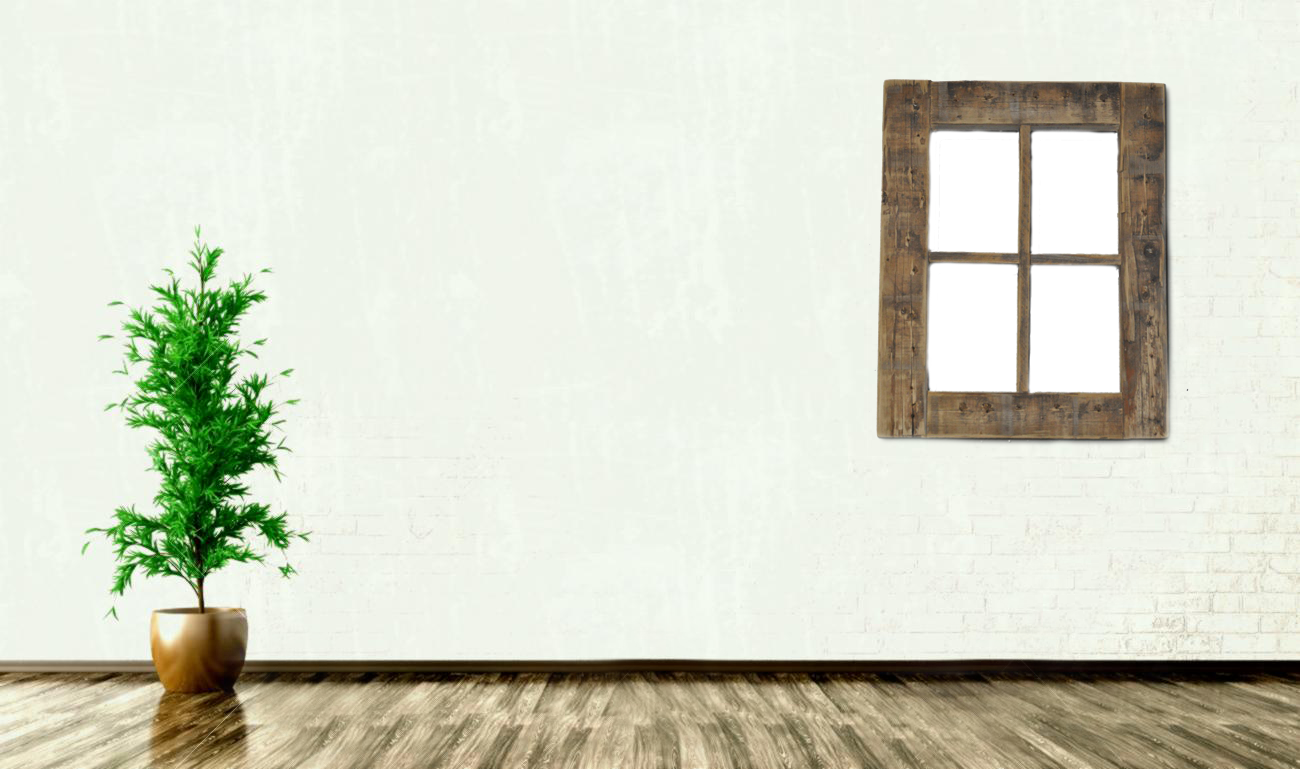
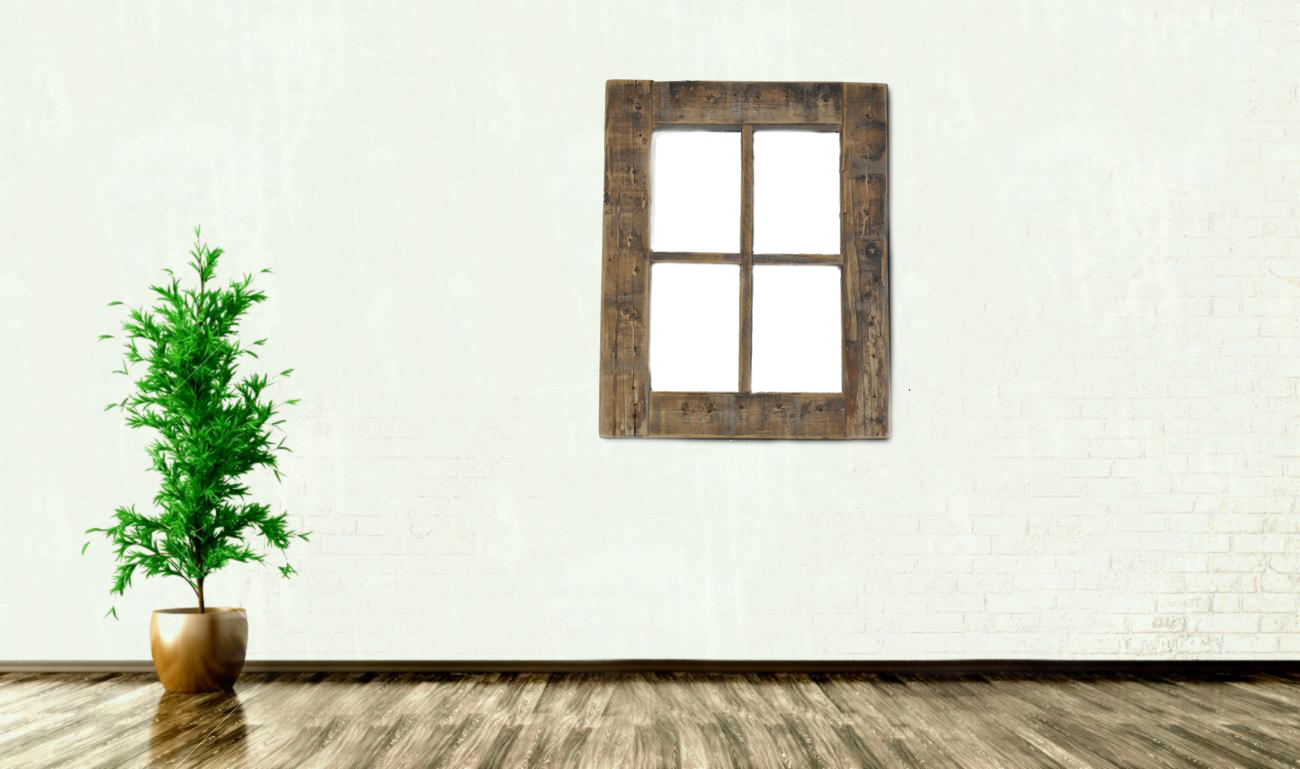
fixed door and fixed navbar

Changed region(s): [[0.4615, 0.0936, 0.9231, 0.593]]

diff --git a/client/src/components/NavBar.js b/client/src/components/NavBar.js
@@ -15,7 +15,7 @@ class NavBar extends Component {
     render() {
         return (
 
-            <div>
+            <div className="navbar-fixed">
                 <nav className='extended'>
                     <div className="nav-wrapper">
                         <img id="logoimage" src={logoImage} />

diff --git a/client/src/pages/IndoorPage/IndoorPage.css b/client/src/pages/IndoorPage/IndoorPage.css
@@ -9,9 +9,11 @@
 }
 
 #door {
-    height: 600px;
-    margin-top: 220px;
-    margin-left: 150px
+    height: 500px;
+    margin-top: 130%;
+    padding-top: 10%;
+    margin-left: 60%;
+    position: relative;
 }
 
 #weatherbg {
